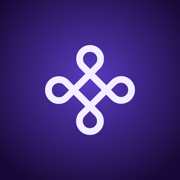
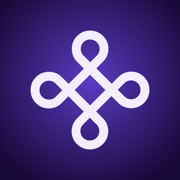
Icona: nodo più grande (+105%)

Changed region(s): [[0.1667, 0.1667, 0.8333, 0.8333]]

diff --git a/index.html b/index.html
@@ -10,8 +10,8 @@
 <meta name="apple-mobile-web-app-capable" content="yes">
 <meta name="apple-mobile-web-app-status-bar-style" content="default">
 <link rel="manifest" href="manifest.webmanifest">
-<link rel="icon" href="favicon-32.png?v=3" type="image/png">
-<link rel="apple-touch-icon" href="apple-touch-icon.png?v=3">
+<link rel="icon" href="favicon-32.png?v=4" type="image/png">
+<link rel="apple-touch-icon" href="apple-touch-icon.png?v=4">
 
 <!--
   Spell sul telefono: premi Registra, parla, il pensiero va nel repository privato e il Mac lo trascrive.

diff --git a/sw.js b/sw.js
@@ -1,5 +1,5 @@
 // Spell: il guscio dell'app resta disponibile offline; i pensieri li tiene data.js (IndexedDB).
-const C = 'spell-v3';
+const C = 'spell-v4';
 const SHELL = ['./', 'index.html', 'icon-192.png', 'favicon-32.png'];
 self.addEventListener('install', e => { self.skipWaiting(); e.waitUntil(caches.open(C).then(c => c.addAll(SHELL)).catch(() => {})); });
 self.addEventListener('activate', e => e.waitUntil(caches.keys().then(k => Promise.all(k.filter(x => x !== C).map(x => caches.delete(x)))).then(() => self.clients.claim())));
